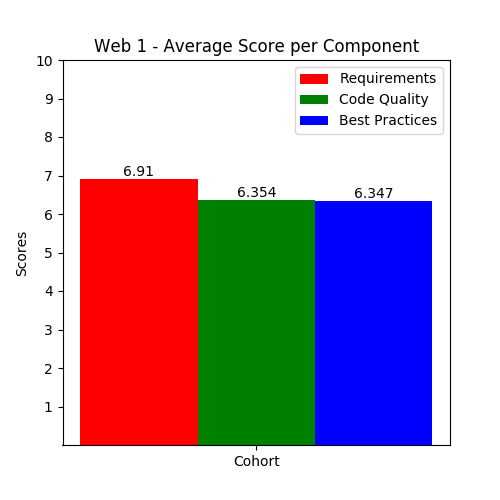
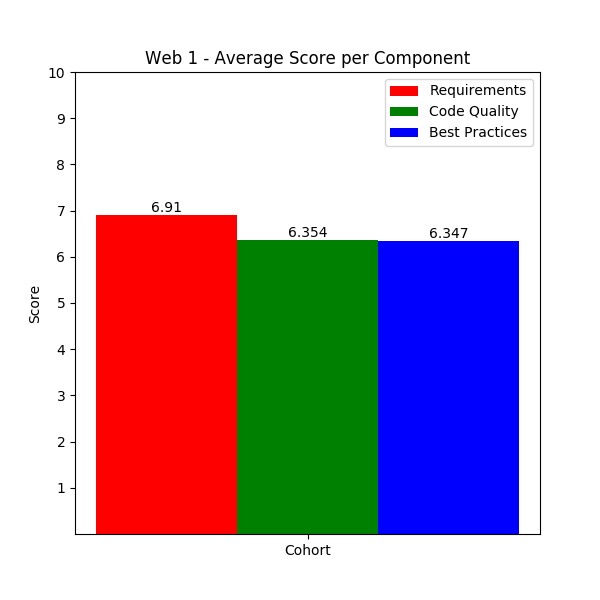
Update .js utils and .py graphs

diff --git a/generate.js b/generate.js
@@ -91,7 +91,6 @@ const createSubheading = (
 const generateCheckpoint = (myTotal, myTotalCount, myPracticals, myPracticalPercentage) => {
   createSubheading(1, 10, txtColor.earth, 'Total: ', txtColor.black, `You have completed ${myTotal} out of ${myTotalCount} practicals.`)
   createSubheading(1, 10, txtColor.earth, 'Percentage: ', txtColor.black, `You have gained ${myPracticals}% out of a possible ${myPracticalPercentage}%.`)
-  pdf.image('./public/img/web-one-cp-completion.png', 57, 350, { width: 350, height: 300 })
 }
 
 const generateAssignment = (myTbl, myAssignmentName, myTotal, myGrade, myPercentage, myAssignmentPercentage) => {
@@ -210,7 +209,7 @@ createReadStream(path.join(__dirname, 'csv', csvFilename))
          */
         case courseCSVFile[2]:
           const progFourCPOne = filterObj(s, /^checkpoint([1-9]|1[0-3])$/i)
-          const progFourCPTwo = filterObj(s, /^checkpoint(1[4-9]|2[0-4])\d*/i)
+          const progFourCPTwo = filterObj(s, /^checkpoint(1[4-9]|2[0-3])\d*/i)
           markCheckpoint(progFourCPOne, inClassCPRowsOne)
           markCheckpoint(progFourCPTwo, inClassCPRowsTwo)
           table = { headers: courseAssessment.prog_four, rows: [progFourRow] }
@@ -266,6 +265,7 @@ createReadStream(path.join(__dirname, 'csv', csvFilename))
         case courseCSVFile[2]:
           createTable(txtColor.black, inClassCheckpointsTblTwo, 72, 325, 425, 10)
           generateCheckpoint(s.total, '24', s.practicals, '15')
+          pdf.image('./public/img/prog-four-cp-completion.png', 57, 400, { width: 325, height: 325 })
           pdf.addPage()
           generateAssignment(assignmentOneTbl, assignmentName, s.a1total, s.a1grade, s.assignment1, '45')
           pdf.addPage()
@@ -273,11 +273,12 @@ createReadStream(path.join(__dirname, 'csv', csvFilename))
           break
         case courseCSVFile[3]:
           generateCheckpoint(s.total, '10', s.practicals, '20')
+          pdf.image('./public/img/web-one-cp-completion.png', 57, 350, { width: 325, height: 325 })
           pdf.addPage()
           generateAssignment(skillsBasedAssessment, 'Skills-Based Assessment', s.sbatotal, s.sbagrade, s.sba, '30')
           pdf.addPage()
           generateAssignment(assignmentOneTbl, assignmentName, s.a1total, s.a1grade, s.assignment1, '20')
-          pdf.image(`./public/img/web-one-assignment-completion.png`, 57, 235, { width: 350, height: 300 })
+          pdf.image('./public/img/web-one-assignment-completion.png', 57, 235, { width: 325, height: 325 })
           pdf.addPage()
           generateAssignment(assignmentTwoTbl, 'Item Review Node.js Application', s.a2total, s.a2grade, s.assignment2, '30')
           pdf.addPage()

diff --git a/send.js b/send.js
@@ -33,7 +33,7 @@ jsonPath.map((d, idx) => {
       from: email,
       to: `orrgl1@student.op.ac.nz`,
       subject: courseName,
-      html: `Hello, your course result for <b>${courseName}</b>, has been released on EBS. Please check your <b>"Results & Awards"</b> tab in your <b>Student Hub</b> portal. Have a good holiday.`,
+      html: `Hello, your course result for <b>${courseName}</b>, has been released on EBS. Please check your <b>"Results & Awards"</b> tab in your <b>Student Hub</b> portal. Enjoy your holidays.`,
       attachments: [
         {
           path: `./pdf/${coursePDF}/final/final-results-${githubname}.pdf`

diff --git a/merge.js b/merge.js
@@ -26,9 +26,10 @@ jsonPath.map((d, idx) => {
     PDFMerge(
       [
         `./pdf/${coursePDF}/results-${githubname}.pdf`,
-        `./pdf/${coursePDF}/roguelike/roguelike-${githubname}.pdf`
+        `./pdf/feedback/roguelike-${githubname}.pdf`,
+        `./pdf/feedback/language-exploration-${githubname}.pdf`
       ],
-      `./pdf/${coursePDF}/final/final-results-${githubname}.pdf`
+      `./pdf/final/results-${githubname}.pdf`
     )
       .then(_ => console.log(`PDF files merged for ${studentname}.`.blue))
       .catch(err => console.log(err))

diff --git a/test/helper.test.js b/test/helper.test.js
@@ -103,7 +103,18 @@ describe('markCheckpoint', () => {
   test('should return an array of complete/incomplete checkpoint 1-10 values', async () => {
     const checkpointArr = []
     const result = await markCheckpoint(filteredArr, checkpointArr)
-    expect(result).toEqual(['Y', 'N', 'Y', 'N', 'Y', 'Y', 'Y', 'N', 'Y', 'Y'])
+    expect(result).toEqual([
+      'Yes',
+      'No',
+      'Yes',
+      'No',
+      'Yes',
+      'Yes',
+      'Yes',
+      'No',
+      'Yes',
+      'Yes'
+    ])
   })
 })
 

diff --git a/helper.js b/helper.js
@@ -50,7 +50,7 @@ const createJSON = (myInput, myOutput) => {
  * @param {object} myCPRowArr
  */
 const markCheckpoint = (myCPArr, myCPRowArr) => {
-  myCPArr.map(p => (p === '0' ? myCPRowArr.push('N') : myCPRowArr.push('Y')))
+  myCPArr.map(p => (p === '0' ? myCPRowArr.push('No') : myCPRowArr.push('Yes')))
   return myCPRowArr
 }
 

diff --git a/graphs/assignment_graph.py b/graphs/assignment_graph.py
@@ -31,7 +31,7 @@ components = list(split_arr(comp_one, title[json_input][3] - 1))
 
 num_of_bars = np.arange(1)
 width = 0.10
-fig = plt.figure(figsize=(5, 5))
+fig = plt.figure(figsize=(6, 6))
 plt.title(f'{title[json_input][0]} - Average Score per Component')
 axis = fig.add_subplot(111)
 x_vals = [round(sum(components[0]) / len(components[0]), 3)]
@@ -40,7 +40,7 @@ y_vals = [round(sum(components[1]) / len(components[1]), 3)]
 rect_two = axis.bar(num_of_bars + width, y_vals, width, color='g')
 z_vals = [round(sum(components[2]) / len(components[2]), 3)]
 rect_three = axis.bar(num_of_bars + width * 2, z_vals, width, color='b')
-axis.set_ylabel('Scores')
+axis.set_ylabel('Score')
 axis.set_yticks(tuple(idx for idx in range(1, 11)))
 axis.set_xticks(num_of_bars + width)
 axis.set_xticklabels(('Cohort',))

diff --git a/graphs/checkpoint_graph.py b/graphs/checkpoint_graph.py
@@ -12,7 +12,8 @@ def label(bar):
 
 json_input = sys.argv[1]
 stdnt_cp_total = []
-title = {'web-one-grades.json': ['Web 1', 'web-one', 11, 37]}
+title = {'prog-four-grades.json': ['Programming 4', 'prog-four', 24, 17],
+         'web-one-grades.json': ['Web 1', 'web-one', 11, 37]}
 
 with open(f'../json/{json_input}', 'r') as f:
     data = json.load(f)
@@ -24,7 +25,7 @@ with open(f'../json/{json_input}', 'r') as f:
         stdnt_cp_total.append(total)
 
 num_of_cps = tuple(idx for idx in range(1, title[json_input][2]))
-plt.figure(figsize=(5, 5))
+plt.figure(figsize=(6, 6))
 plt.title(f'{title[json_input][0]} - Completed Checkpoints')
 label(plt.bar(num_of_cps, stdnt_cp_total, align='center', color='r'))
 plt.xticks(num_of_cps)
